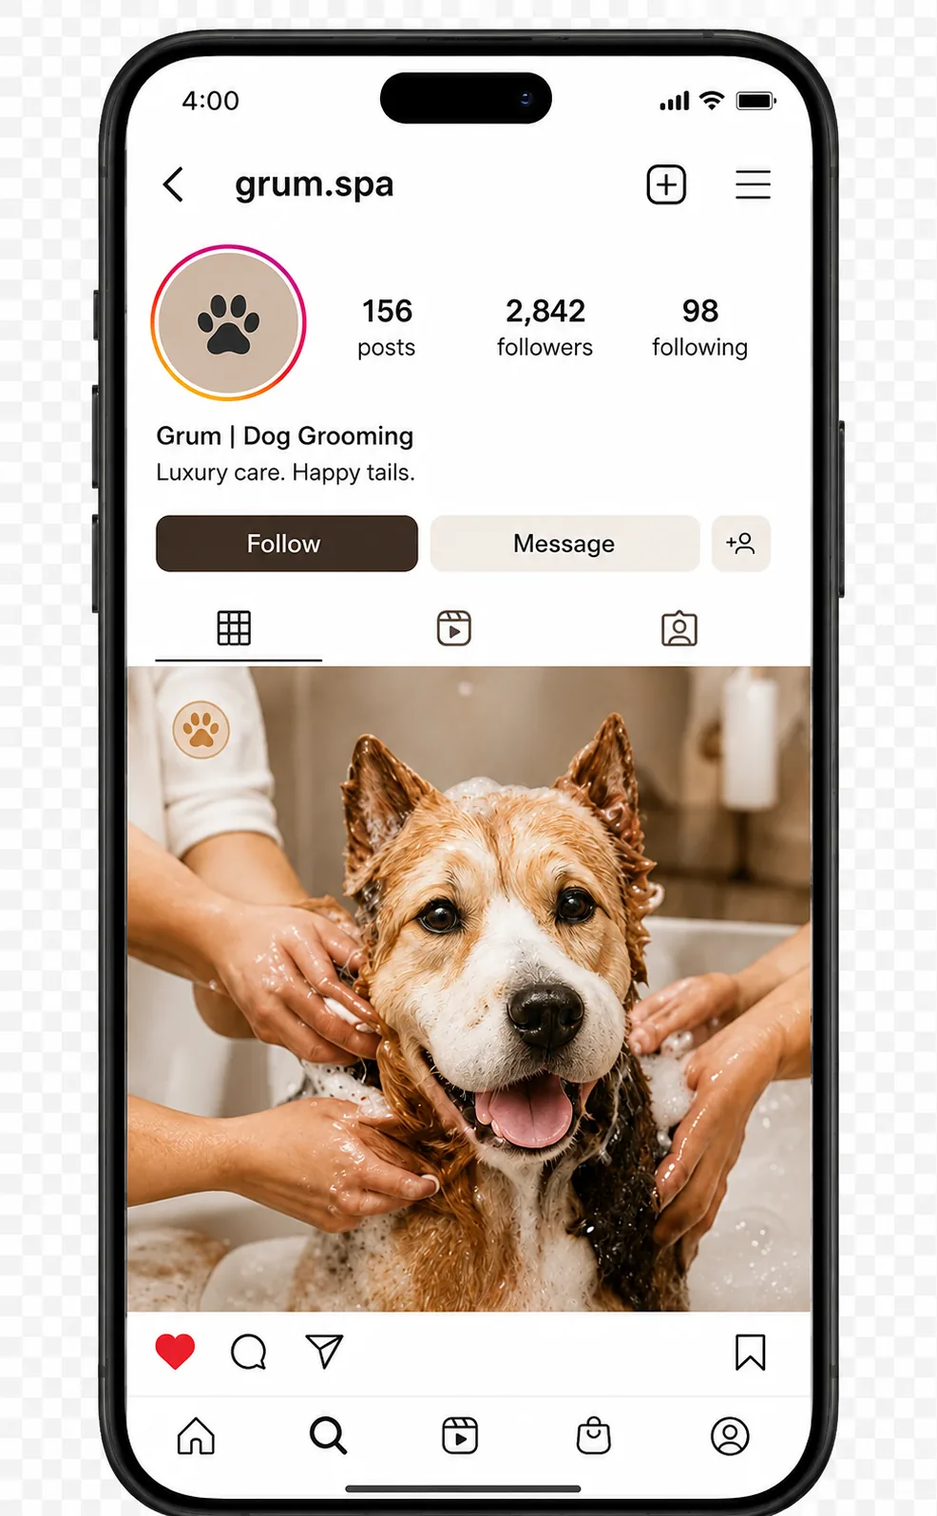
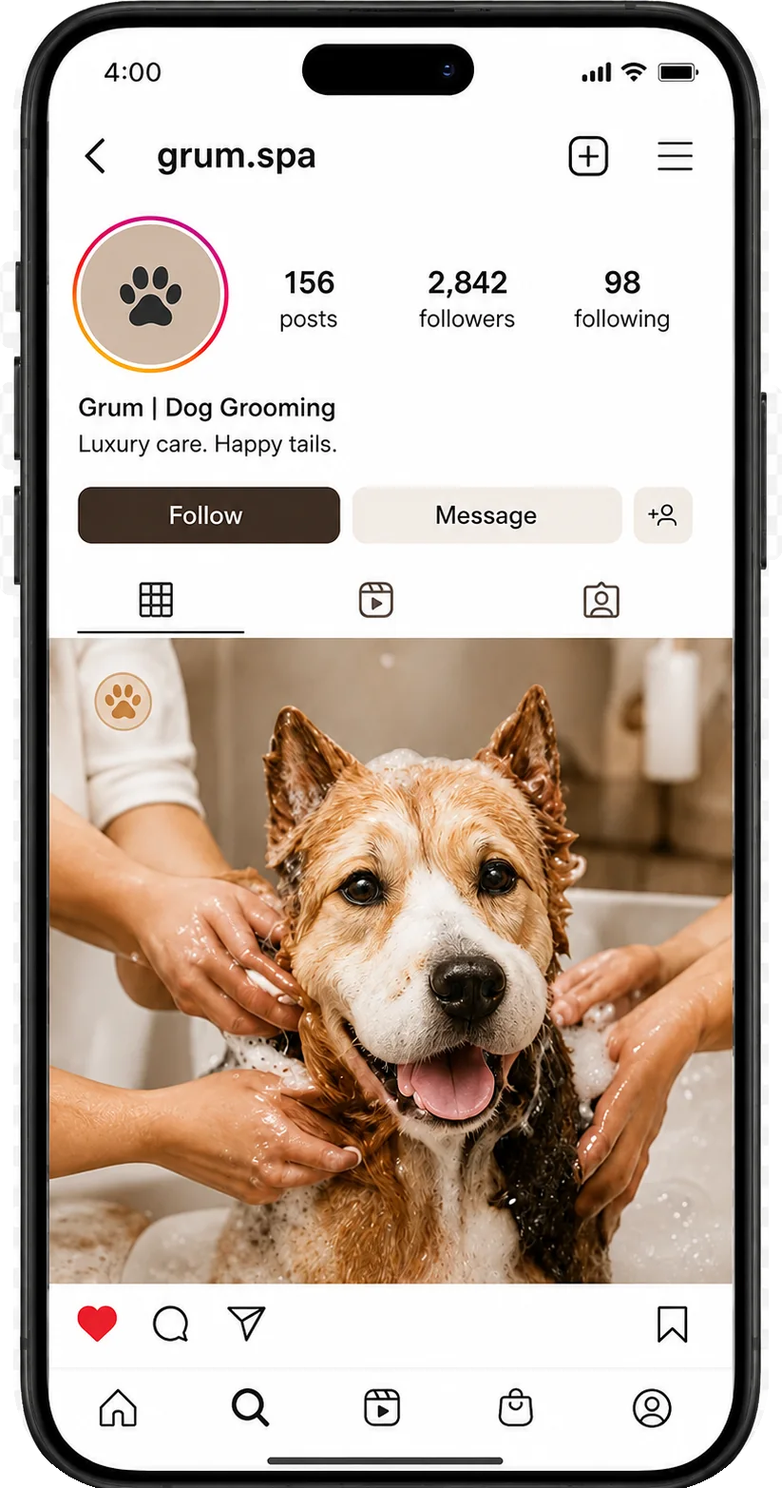
Fix Instagram phone and refresh grooming imagery

diff --git a/enhancements.css b/enhancements.css
@@ -109,7 +109,7 @@ html[lang="es"] .localized-hero-headline .hero-headline-es{
 /* Keep the original left copy / right booking balance from the screenshot. */
 .final-copy{left:64px!important;top:60px!important;width:286px!important}
 .final-book{left:50%!important;top:55px!important;transform:translateX(160px)!important}
-.legal-links{left:712px!important;top:116px!important}
+.legal-links{left:50%!important;top:116px!important;transform:translateX(160px)!important}
 
 /* Minimal language switcher at the bottom-right. */
 .language-switcher{
@@ -153,20 +153,20 @@ html[lang="es"] .localized-hero-headline .hero-headline-es{
 
 /* Gallery lightbox */
 .gallery-lightbox{
-  width:min(920px,calc(100vw - 34px));
-  max-width:920px;
-  height:min(760px,calc(100vh - 34px));
-  max-height:760px;
+  width:auto;
+  max-width:calc(100vw - 28px);
+  height:auto;
+  max-height:calc(100vh - 28px);
   padding:0;
   border:0;
-  border-radius:22px;
-  overflow:hidden;
-  background:#fffaf6;
-  box-shadow:0 30px 90px rgba(0,0,0,.38);
+  border-radius:0;
+  overflow:visible;
+  background:transparent;
+  box-shadow:none;
 }
 .gallery-lightbox::backdrop{background:rgba(24,19,16,.36);backdrop-filter:blur(5px)}
-.gallery-lightbox-shell{position:relative;width:100%;height:100%;display:grid;place-items:center;padding:34px 72px;background:transparent}
-.gallery-lightbox-image{display:block;width:auto;height:auto;max-width:calc(100vw - 120px);max-height:calc(100vh - 90px);object-fit:contain;border-radius:0;background:transparent;box-shadow:none}
+.gallery-lightbox-shell{position:relative;display:grid;place-items:center;padding:0;background:transparent}
+.gallery-lightbox-image{display:block;width:auto;height:auto;max-width:calc(100vw - 96px);max-height:calc(100vh - 72px);object-fit:contain;border-radius:0;background:transparent;box-shadow:none}
 .gallery-lightbox-close,.gallery-lightbox-arrow{
   position:absolute;z-index:3;border:0;border-radius:999px;background:rgba(255,255,255,.94);color:#171717;display:grid;place-items:center;box-shadow:0 4px 18px rgba(0,0,0,.18)
 }
@@ -191,10 +191,16 @@ body[data-page="home"] .gallery-inner{
 body[data-page="home"] .phone-mock{
   z-index:30!important;
   pointer-events:auto!important;
+  width:215px!important;
+  height:auto!important;
+  overflow:visible!important;
+  border-radius:0!important;
 }
 body[data-page="home"] .phone-mock img{
   position:relative;
   z-index:30;
+  width:100%!important;
+  height:auto!important;
 }
 body[data-page="home"] .gallery-title,
 body[data-page="home"] .gallery-more{z-index:31}
@@ -233,11 +239,11 @@ body[data-page="home"] .ig-grid.ig-infinite-carousel img{
   .final-dog{left:auto!important;top:auto!important;width:100%!important;height:190px!important}
   .final-dog img{width:100%!important;height:auto!important;object-fit:contain!important;object-position:center top!important}
   .final-book{left:auto!important;top:auto!important;transform:none!important}
-  .legal-links{left:auto!important;top:auto!important}
+  .legal-links{left:auto!important;top:auto!important;transform:none!important}
   .language-switcher{position:static;justify-content:flex-end;margin-top:8px;padding-right:2px;font-size:10px}
   .language-switcher button{font-size:10px}
-  .gallery-lightbox-shell{padding:64px 50px 38px}
-  .gallery-lightbox-image{width:100%;height:auto;max-height:calc(100vh - 140px)}
+  .gallery-lightbox-shell{padding:0}
+  .gallery-lightbox-image{width:auto;height:auto;max-width:calc(100vw - 72px);max-height:calc(100vh - 64px)}
   .gallery-lightbox-arrow{width:40px;height:40px}
   body[data-page="home"] .ig-grid.ig-infinite-carousel{gap:8px!important}
 }
@@ -247,27 +253,37 @@ body[data-page="home"] .ig-grid.ig-infinite-carousel img{
 body[data-page="home"] .phone-mock img{z-index:0;pointer-events:none}
 body[data-page="home"] .phone-mock a{z-index:2}
 body[data-page="home"] .grum-instagram{position:absolute}
+body[data-page="home"] .grum-instagram .profile,
+body[data-page="home"] .grum-instagram .profile:hover,
+body[data-page="home"] .grum-instagram .profile:focus-visible{background:transparent;box-shadow:none}
+body[data-page="home"] .grum-instagram .profile::before{display:none;content:none}
 body[data-page="home"] .grum-instagram .instagram-message-label{
   position:absolute;
-  left:47.15%;
-  top:33.86%;
-  z-index:2;
-  width:27.9%;
-  height:3.64%;
+  left:45.4%;
+  top:32.85%;
+  z-index:32;
+  width:29.2%;
+  height:3.82%;
   display:flex;
   align-items:center;
   justify-content:center;
   border-radius:1.3cqw;
   background:#f4f1ec;
-  color:#171717;
+  color:transparent;
   font:500 2.45cqw Arial,Helvetica,sans-serif;
   line-height:1;
   letter-spacing:0;
+  opacity:0;
 }
 html[lang="de"] .grum-instagram .follow,
 html[lang="es"] .grum-instagram .follow{
-  background:#f4f1ec;
-  border-radius:7px;
+  left:8.3%;
+  top:32.85%;
+  width:33.9%;
+  height:3.82%;
+  background:transparent;
+  border-radius:1.3cqw;
+  z-index:32;
 }
 html[lang="de"] .grum-instagram .follow::after,
 html[lang="es"] .grum-instagram .follow::after{
@@ -276,8 +292,8 @@ html[lang="es"] .grum-instagram .follow::after{
   width:100%;
   height:100%;
   color:#151515;
-  background:#f4f1ec;
-  box-shadow:0 0 0 .15cqw #f4f1ec;
+  background:#4b3327;
+  box-shadow:0 0 0 .15cqw #4b3327;
   font:500 2.45cqw Arial,Helvetica,sans-serif;
   line-height:1;
   opacity:1;
@@ -286,9 +302,10 @@ html[lang="de"] .grum-instagram .follow::after{content:"Folgen"}
 html[lang="es"] .grum-instagram .follow::after{content:"Seguir"}
 html[lang="de"] .grum-instagram .follow:hover::after,html[lang="de"] .grum-instagram .follow:focus-visible::after,
 html[lang="es"] .grum-instagram .follow:hover::after,html[lang="es"] .grum-instagram .follow:focus-visible::after{color:#fff;background:#0095f6;box-shadow:0 0 0 .15cqw #0095f6}
-html[lang="de"] .grum-instagram .instagram-message-label{font-size:2.12cqw;color:transparent}
+html[lang="de"] .grum-instagram .instagram-message-label,
+html[lang="es"] .grum-instagram .instagram-message-label{opacity:1}
+html[lang="de"] .grum-instagram .instagram-message-label{font-size:2.12cqw}
 html[lang="de"] .grum-instagram .instagram-message-label::after{content:"Nachricht";color:#171717}
-html[lang="es"] .grum-instagram .instagram-message-label{color:transparent}
 html[lang="es"] .grum-instagram .instagram-message-label::after{content:"Mensaje";color:#171717}
 body[data-page="home"] .ig-carousel-viewport{position:absolute;left:0;right:0;top:100px;height:190px;overflow:hidden;z-index:2;touch-action:pan-y;cursor:grab;user-select:none}
 body[data-page="home"] .ig-carousel-viewport.is-dragging{cursor:grabbing}
@@ -314,7 +331,7 @@ body[data-page="home"] .ig-carousel-viewport img{width:150px!important;height:11
 }
 .teeth-cleaning-img{padding:0!important;transform:none!important;object-position:center 18%!important}
 .service-card:has(img[src*="service-teeth-cleaning"]) img{object-position:center 18%!important}
-.blog-detail-scroll>img{display:block;width:100%;height:auto;aspect-ratio:3/2;object-fit:contain;background:#f3ebe7}
+.blog-detail-scroll>img{display:block;width:100%;height:260px;object-fit:cover;background:transparent}
 .blog-post img{border:0;box-shadow:none;object-position:center}
 body.modal-open{overflow:hidden}
 body.blog-modal-open{overflow:hidden}
@@ -348,6 +365,11 @@ html[lang="de"] .content-heading span{
 .service-note{margin:20px 0 18px;font-family:Arial,Helvetica,sans-serif;font-size:11px;line-height:1.55;color:#5d5550}
 .service-detail-book{width:100%;height:46px}
 .booking-calendar input{font-family:Arial,Helvetica,sans-serif;color:#272423}
+
+.legal-page .page-hero{display:grid;place-items:center;text-align:center}
+.legal-page .page-hero-inner{width:min(100%,1024px);display:grid;grid-template-columns:1fr;place-items:center}
+.legal-page .page-hero-copy{margin:0 auto;text-align:center}
+.legal-page .legal-card{text-align:left}
 body[data-page="home"] .instagram-message-label{transform:translateX(-1%)}
 .svc-price{font-weight:650}
 .service-detail-modal[data-service="A LA CARTE"] .service-detail-block:first-of-type,

diff --git a/blog.html b/blog.html
@@ -28,7 +28,7 @@
           <button class="btn btn-primary" data-book><span class="phone-icon" aria-hidden="true"></span>BOOK APPOINTMENT</button>
         </div>
         <div class="page-hero-photo">
-          <img src="assets/blog-bath-realistic.webp" alt="Happy dog getting a bath in a grooming studio" />
+          <img src="assets/blog-grooming-basics-funny-realistic.webp" alt="Happy dog with shampoo bubbles in a grooming bath" />
         </div>
       </div>
     </section>
@@ -39,8 +39,8 @@
         <h2 class="content-heading">GROOMING <span>GUIDES &amp; TIPS</span></h2>
 
         <div class="blog-list">
-          <article class="blog-post" tabindex="0" role="button" data-blog-title="HOW OFTEN SHOULD YOU ACTUALLY BATHE YOUR DOG?" data-blog-category="GROOMING BASICS" data-blog-image="assets/blog-bath-realistic.webp" data-blog-detail-image="assets/blog-bath-realistic.webp" data-blog-body="Most dogs do well with a bath every four to six weeks, but the right schedule depends on coat type, skin sensitivity, activity level, and how much time they spend outside.|Short-coated dogs may need less frequent baths, while curly, long, or double-coated dogs often need more regular professional care to prevent buildup and matting.|If your dog smells, feels greasy, scratches more than usual, or leaves extra dirt on bedding, it may be time for a bath. If the skin looks dry or irritated, we can help choose a gentler rhythm.">
-            <img src="assets/blog-bath-realistic.webp" alt="Happy dog getting a bath in a grooming studio" loading="lazy" />
+          <article class="blog-post" tabindex="0" role="button" data-blog-title="HOW OFTEN SHOULD YOU ACTUALLY BATHE YOUR DOG?" data-blog-category="GROOMING BASICS" data-blog-image="assets/blog-grooming-basics-funny-realistic.webp" data-blog-detail-image="assets/blog-grooming-basics-funny-realistic.webp" data-blog-body="Most dogs do well with a bath every four to six weeks, but the right schedule depends on coat type, skin sensitivity, activity level, and how much time they spend outside.|Short-coated dogs may need less frequent baths, while curly, long, or double-coated dogs often need more regular professional care to prevent buildup and matting.|If your dog smells, feels greasy, scratches more than usual, or leaves extra dirt on bedding, it may be time for a bath. If the skin looks dry or irritated, we can help choose a gentler rhythm.">
+            <img src="assets/blog-grooming-basics-funny-realistic.webp" alt="Happy dog with shampoo bubbles in a grooming bath" loading="lazy" />
             <div class="blog-post-body">
               <p class="blog-date">GROOMING BASICS</p>
               <h3>HOW OFTEN SHOULD YOU ACTUALLY BATHE YOUR DOG?</h3>
@@ -48,7 +48,7 @@
             </div>
           </article>
 
-          <article class="blog-post" tabindex="0" role="button" data-blog-title="BRUSHING BETWEEN VISITS: A 5-MINUTE ROUTINE THAT WORKS" data-blog-category="COAT CARE" data-blog-image="assets/blog-brushing-clean.webp" data-blog-detail-image="assets/blog-brushing-clean.webp" data-blog-body="A short brushing routine a few times a week can make a huge difference, especially around the ears, chest, tail, belly, and legs where mats start fastest.|Use slow passes, work in small sections, and stop if your dog gets uncomfortable. The goal is consistency, not a wrestling match.|Regular brushing helps keep appointments calmer because the coat is easier to wash, dry, and style. It also lets you spot skin changes before they become bigger problems.">
+          <article class="blog-post" tabindex="0" role="button" data-blog-title="BRUSHING BETWEEN VISITS: A 5-MINUTE ROUTINE THAT WORKS" data-blog-category="COAT CARE" data-blog-image="assets/blog-brushing-clean.webp" data-blog-detail-image="assets/blog-coat-care-detail-realistic.webp" data-blog-body="A short brushing routine a few times a week can make a huge difference, especially around the ears, chest, tail, belly, and legs where mats start fastest.|Use slow passes, work in small sections, and stop if your dog gets uncomfortable. The goal is consistency, not a wrestling match.|Regular brushing helps keep appointments calmer because the coat is easier to wash, dry, and style. It also lets you spot skin changes before they become bigger problems.">
             <img src="assets/blog-brushing-clean.webp" alt="Fluffy pomeranian dog" loading="lazy" />
             <div class="blog-post-body">
               <p class="blog-date">COAT CARE</p>
@@ -57,7 +57,7 @@
             </div>
           </article>
 
-          <article class="blog-post" tabindex="0" role="button" data-blog-title="SIGNS YOUR DOG'S NAILS ARE OVERDUE FOR A TRIM" data-blog-category="NAIL &amp; PAW CARE" data-blog-image="assets/blog-nails-clean.webp" data-blog-detail-image="assets/blog-nails-clean.webp" data-blog-body="If you hear clicking on hard floors, see nails touching the ground while your dog stands, or notice curling tips, it is probably time for a trim.|Long nails can change posture and make walking less comfortable. Some dogs also start slipping more because their paws cannot sit naturally.|For nervous pets, shorter and more frequent nail appointments can be easier than waiting until the nails are very long.">
+          <article class="blog-post" tabindex="0" role="button" data-blog-title="SIGNS YOUR DOG'S NAILS ARE OVERDUE FOR A TRIM" data-blog-category="NAIL &amp; PAW CARE" data-blog-image="assets/blog-nails-clean.webp" data-blog-detail-image="assets/blog-nail-detail-realistic.webp" data-blog-body="If you hear clicking on hard floors, see nails touching the ground while your dog stands, or notice curling tips, it is probably time for a trim.|Long nails can change posture and make walking less comfortable. Some dogs also start slipping more because their paws cannot sit naturally.|For nervous pets, shorter and more frequent nail appointments can be easier than waiting until the nails are very long.">
             <img src="assets/blog-nails-clean.webp" alt="Small dog having nails clipped" loading="lazy" />
             <div class="blog-post-body">
               <p class="blog-date">NAIL &amp; PAW CARE</p>

diff --git a/site.config.js b/site.config.js
@@ -41,15 +41,15 @@ window.SITE_CONFIG = {
     introHtml: 'From refreshing baths to complete makeovers,<br>we provide exceptional care tailored to<br>your pet’s unique needs.',
     linkLabel: 'VIEW ALL SERVICES',
     cards: [
-      { number:'01', title:'BATH & BRUSH', descriptionHtml:'A relaxing bath, gentle cleanse<br>and thorough brushing for a<br>fresh, healthy coat.', image:'assets/service-bath.webp', imageAlt:'White dog wrapped in a towel', style:'green' },
+      { number:'01', title:'BATH & BRUSH', descriptionHtml:'A relaxing bath, gentle cleanse<br>and thorough brushing for a<br>fresh, healthy coat.', image:'assets/service-bath-user.webp', imageAlt:'White dog wrapped in a spa robe after a bath', style:'green' },
       { number:'02', title:'HAIRCUT & STYLING', descriptionHtml:'Custom haircuts and styling<br>designed to bring out your pet’s<br>best look.', image:'assets/service-hair.jpg', imageAlt:'Fluffy pomeranian dog', style:'black', featured:true },
       { number:'03', title:'NAIL CLIPPING', descriptionHtml:'Safe, precise nail trimming<br>to keep your pet comfortable<br>and confident.', image:'assets/service-nails.jpg', imageAlt:'Small dog having nails clipped', style:'orange' },
       { number:'04', title:'TEETH CLEANING', descriptionHtml:'Gentle oral care for fresher<br>breath and a happier,<br>healthier smile.', image:'assets/service-teeth-cleaning.webp', imageAlt:'Smiling white dog ready for teeth cleaning', style:'green' },
       { number:'05', title:'DE-SHEDDING', descriptionHtml:'A deep coat treatment to<br>remove loose fur and leave<br>your pet feeling lighter.', image:'assets/hairless-chinese-crested.webp', imageAlt:'Smiling hairless dog with its tongue out', style:'black', featured:true },
       { number:'06', title:'PUPPY INTRO', descriptionHtml:'A calm first visit designed<br>to build trust and make<br>grooming feel easy.', image:'assets/tiny-puppy.webp', imageAlt:'Tiny fluffy puppy', style:'orange' },
       { number:'07', title:'COMBO', descriptionHtml:'Bundle favorite services<br>into one polished spa-day<br>appointment.', image:'assets/service-combo-funny.webp', imageAlt:'Golden retriever enjoying a combo grooming spa treatment', style:'green' },
-      { number:'08', title:'A LA CARTE', descriptionHtml:'Pick any single service<br>from our grooming menu<br>as a quick touch-up.', image:'assets/service-a-la-carte-funny.webp', imageAlt:'Playful dog ready for a la carte grooming touch-ups', style:'black', featured:true },
-      { number:'09', title:'ADD-ON SERVICES', descriptionHtml:'Add extra care to any<br>service on our grooming<br>menu.', image:'assets/service-add-ons-funny.webp', imageAlt:'Happy dog enjoying extra spa add-on services', style:'orange' },
+      { number:'08', title:'A LA CARTE', descriptionHtml:'Pick any single service<br>from our grooming menu<br>as a quick touch-up.', image:'assets/service-a-la-carte-pitbull.webp', imageAlt:'Pitbull enjoying a la carte grooming touch-ups', style:'black', featured:true },
+      { number:'09', title:'ADD-ON SERVICES', descriptionHtml:'Add extra care to any<br>service on our grooming<br>menu.', image:'assets/service-add-ons-black-retriever.webp', imageAlt:'Black retriever enjoying extra spa add-on services', style:'orange' },
     ],
     details: {
       'BATH & BRUSH': { lead:'A gentle reset for a clean coat, fresh scent, and softer brush-out.', includes:['Warm bath with coat-safe shampoo','Conditioning rinse','Blow dry','Full brush-out','Light finishing spray'], pricing:[['Small dogs','€35+'],['Medium dogs','€45+'],['Large dogs','€60+']] },
@@ -67,9 +67,9 @@ window.SITE_CONFIG = {
   gallery: {
     kicker:'FOLLOW OUR JOURNEY!', heading:'ON INSTAGRAM', linkLabel:'VIEW MORE ON INSTAGRAM', phoneImage:'assets/instagram-phone-transparent.webp', phoneAlt:'Grüm Instagram profile on a phone',
     images:[
-      {src:'assets/gallery-19145874.webp',alt:'Poodle waiting in a grooming studio'}, {src:'assets/gallery-13085581.webp',alt:'Happy Pomeranian on a grooming table'},
-      {src:'assets/gallery-7391070.webp',alt:'Fluffy Pomeranian being groomed'}, {src:'assets/gallery-6131165.webp',alt:'Terrier having a gentle bath'},
-      {src:'assets/gallery-19145888.webp',alt:'Shih Tzu enjoying a salon bath'}, {src:'assets/gallery-19145895.webp',alt:'Dog relaxing during its bath'},
+      {src:'assets/gallery-12943750.webp',alt:'Curious terrier in a bubble bath'}, {src:'assets/gallery-17802173.webp',alt:'Two smiling poodles surrounded by bubbles'},
+      {src:'assets/gallery-36174558.webp',alt:'Small fluffy dog bathing in a red bucket'}, {src:'assets/gallery-6131151.webp',alt:'Tiny dog being shampooed'},
+      {src:'assets/gallery-6816870.webp',alt:'Yorkshire terrier getting a haircut'}, {src:'assets/gallery-485294.webp',alt:'Chihuahua wearing a shampoo foam hat'},
     ],
   },
   finalCta: { kicker:'READY FOR THEIR', heading:'BEST DAY EVER?', body:'We can’t wait to meet your best friend.', button:'BOOK APPOINTMENT', buttonSmall:'CLICK TO BOOK', image:'assets/footer-dog-cutout.webp', imageAlt:'Happy golden retriever' },

diff --git a/gallery.html b/gallery.html
@@ -43,14 +43,14 @@
           <div class="photo-tile wide"><img src="assets/gallery-12943750.webp" alt="Curious terrier in a bubble bath" loading="lazy" /></div>
           <div class="photo-tile"><img src="assets/gallery-17802173.webp" alt="Two smiling poodles surrounded by bubbles" loading="lazy" /></div>
           <div class="photo-tile"><img src="assets/gallery-36174558.webp" alt="Small fluffy dog bathing in a red bucket" loading="lazy" /></div>
-          <div class="photo-tile"><img src="assets/gallery-19145874.webp" alt="Poodle waiting in a grooming studio" loading="lazy" /></div>
+          <div class="photo-tile"><img src="assets/service-a-la-carte-pitbull.webp" alt="Pitbull enjoying a la carte grooming touch-ups" loading="lazy" /></div>
           <div class="photo-tile"><img src="assets/gallery-6131151.webp" alt="Tiny dog being shampooed" loading="lazy" /></div>
           <div class="photo-tile"><img src="assets/gallery-6816870.webp" alt="Yorkshire terrier getting a haircut" loading="lazy" /></div>
-          <div class="photo-tile"><img src="assets/gallery-19145888.webp" alt="Shih Tzu enjoying a salon bath" loading="lazy" /></div>
-          <div class="photo-tile"><img src="assets/gallery-13085581.webp" alt="Happy Pomeranian on a grooming table" loading="lazy" /></div>
+          <div class="photo-tile"><img src="assets/blog-coat-care-detail-realistic.webp" alt="Fluffy pomeranian being brushed with a dramatic expression" loading="lazy" /></div>
+          <div class="photo-tile"><img src="assets/service-add-ons-black-retriever.webp" alt="Black retriever enjoying extra spa add-on services" loading="lazy" /></div>
           <div class="photo-tile"><img src="assets/gallery-6131165.webp" alt="Terrier having a gentle bath" loading="lazy" /></div>
-          <div class="photo-tile wide"><img src="assets/gallery-19145895.webp" alt="Dog relaxing during its bath" loading="lazy" /></div>
-          <div class="photo-tile"><img src="assets/gallery-7391070.webp" alt="Fluffy Pomeranian being groomed" loading="lazy" /></div>
+          <div class="photo-tile wide"><img src="assets/blog-grooming-basics-funny-realistic.webp" alt="Happy dog with shampoo bubbles in a grooming bath" loading="lazy" /></div>
+          <div class="photo-tile"><img src="assets/blog-nail-detail-realistic.webp" alt="Small dog getting a careful nail trim" loading="lazy" /></div>
           <div class="photo-tile"><img src="assets/gallery-485294.webp" alt="Chihuahua wearing a shampoo foam hat" loading="lazy" /></div>
         </div>
       </div>

diff --git a/services.html b/services.html
@@ -41,7 +41,7 @@
 
         <div class="services-grid" id="all-service-cards">
           <article class="svc-card svc-green" data-service="BATH &amp; BRUSH" tabindex="0" role="button" aria-label="Book Bath and Brush">
-            <img src="assets/service-bath.webp" alt="Cute white dog wrapped in a towel after a bath" loading="lazy" />
+            <img src="assets/service-bath-user.webp" alt="White dog wrapped in a spa robe after a bath" loading="lazy" />
             <div class="svc-body">
               <div><h3>BATH &amp; BRUSH</h3><p>A relaxing bath, gentle cleanse and thorough brushing for a fresh, healthy coat.</p><span class="svc-price">FROM €35</span></div>
             </div>
@@ -83,13 +83,13 @@
             </div>
           </article>
           <article class="svc-card svc-black" data-service="A LA CARTE" tabindex="0" role="button" aria-label="Book A La Carte">
-            <img src="assets/service-a-la-carte-funny.webp" alt="Playful dog ready for a la carte grooming touch-ups" loading="lazy" />
+            <img src="assets/service-a-la-carte-pitbull.webp" alt="Pitbull enjoying a la carte grooming touch-ups" loading="lazy" />
             <div class="svc-body">
               <div><h3>A LA CARTE</h3><p>Pick any single service from our grooming menu as a quick touch-up.</p><span class="svc-price">FROM €15</span></div>
             </div>
           </article>
           <article class="svc-card svc-orange" data-service="ADD-ON SERVICES" tabindex="0" role="button" aria-label="Book Add-On Services">
-            <img src="assets/service-add-ons-funny.webp" alt="Happy dog enjoying extra spa add-on services" loading="lazy" />
+            <img src="assets/service-add-ons-black-retriever.webp" alt="Black retriever enjoying extra spa add-on services" loading="lazy" />
             <div class="svc-body">
               <div><h3>ADD-ON SERVICES</h3><p>Add extra care to any service on our grooming menu.</p><span class="svc-price">FROM €10</span></div>
             </div>

diff --git a/homepage-carousel.js b/homepage-carousel.js
@@ -9,12 +9,12 @@
   viewport.setAttribute('aria-label', 'Dog photo carousel');
   track.before(viewport); viewport.append(track);
   const images = [
-    ['assets/gallery-19145874.webp', 'Poodle waiting in a grooming studio'],
-    ['assets/gallery-13085581.webp', 'Happy Pomeranian on a grooming table'],
-    ['assets/gallery-7391070.webp', 'Fluffy Pomeranian being groomed'],
-    ['assets/gallery-6131165.webp', 'Terrier having a gentle bath'],
-    ['assets/gallery-19145888.webp', 'Shih Tzu enjoying a salon bath'],
-    ['assets/gallery-19145895.webp', 'Dog relaxing during its bath']
+    ['assets/gallery-12943750.webp', 'Curious terrier in a bubble bath'],
+    ['assets/gallery-17802173.webp', 'Two smiling poodles surrounded by bubbles'],
+    ['assets/gallery-36174558.webp', 'Small fluffy dog bathing in a red bucket'],
+    ['assets/gallery-6131151.webp', 'Tiny dog being shampooed'],
+    ['assets/gallery-6816870.webp', 'Yorkshire terrier getting a haircut'],
+    ['assets/gallery-485294.webp', 'Chihuahua wearing a shampoo foam hat']
   ];
   track.replaceChildren();
   for (let set = 0; set < 3; set++) images.forEach(([src, alt]) => {

diff --git a/index.html b/index.html
@@ -63,7 +63,7 @@
         <div class="service-carousel" aria-label="Grooming services carousel">
           <div class="service-cards" id="service-cards">
           <article class="service-card card-green" data-service="Bath &amp; Brush" tabindex="0" role="button" aria-label="Book Bath and Brush">
-            <img src="assets/service-bath.webp" alt="White dog wrapped in a towel" loading="lazy" draggable="false" />
+            <img src="assets/service-bath-user.webp" alt="White dog wrapped in a spa robe after a bath" loading="lazy" draggable="false" />
             <div class="service-info"><div><h3>BATH &amp; BRUSH</h3><p>A relaxing bath, gentle cleanse<br>and thorough brushing for a<br>fresh, healthy coat.</p></div></div>
           </article>
           <article class="service-card card-black featured" data-service="Haircut &amp; Styling" tabindex="0" role="button" aria-label="Book Haircut and Styling">
